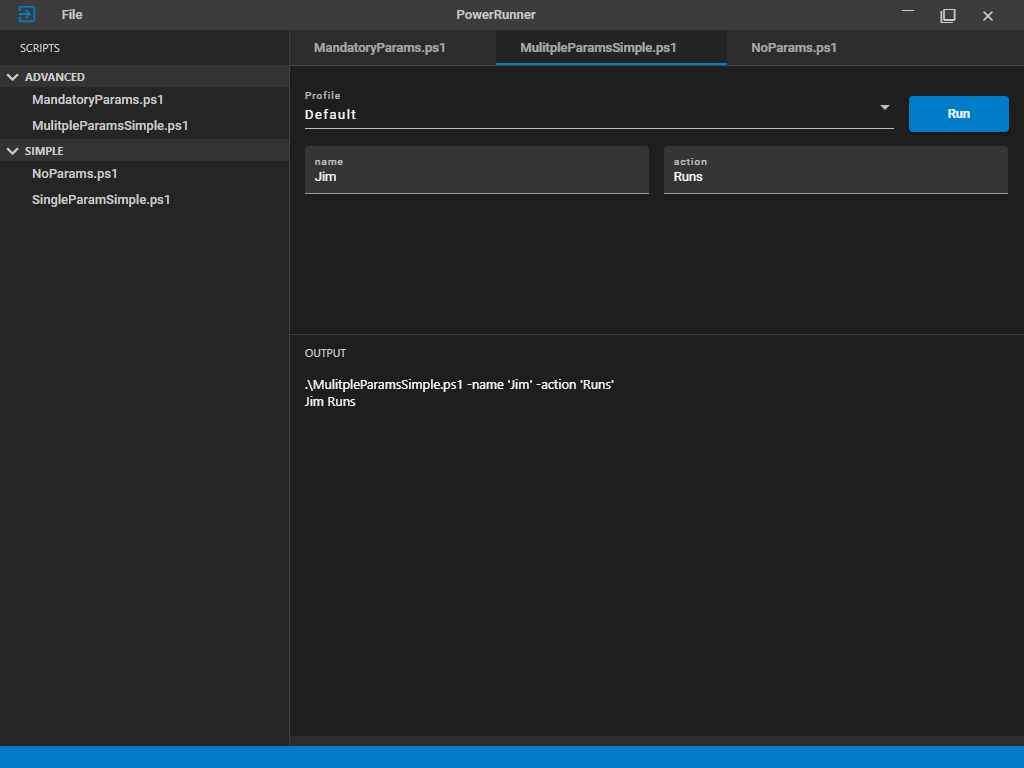
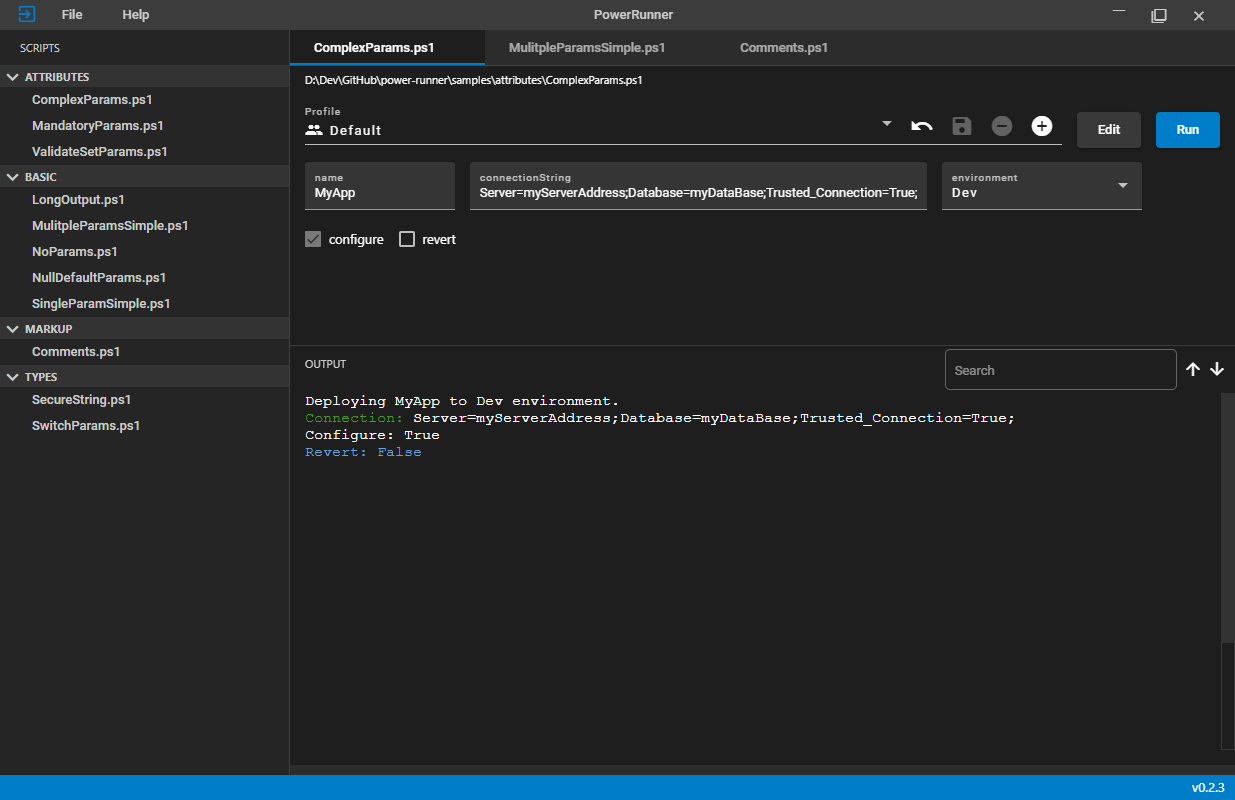
Updated screenshots and installation instructions.

diff --git a/README.md b/README.md
@@ -12,16 +12,24 @@ PowerShell Script runnner that loads scripts from paths and parses commmand line
 - Quickly stop and start runs with a button
 - Search and browse console output
 - Click Edit to go directly to source
+- Automatically keeps itself up to date
 
 ## Example
 
 ``` PowerShell
 param (
-    [string]$name = 'Jim',
-    [string]$action = 'Runs'
+  [string]$name = 'MyApp',
+  [string]$connectionString = 'Server=myServerAddress;Database=myDataBase;Trusted_Connection=True;',
+  [string][ValidateSet("Dev", "Test", "Stage", "Prod")]$environment = "Dev",
+  [bool]$configure = $true,
+  [switch]$revert = $false
 )
 
-Write-Host "$name $action"
+$ESC = [char]27
+Write-Host "Deploying $name to $environment environment."
+Write-Host "$ESC[32mConnection:$ESC[0m $connectionString"
+Write-Host "Configure: $configure"
+Write-Host "Revert: $revert" -ForegroundColor Blue
 ```
 
 <br>
@@ -29,9 +37,18 @@ Write-Host "$name $action"
 ![Overview](assets/overview.png)
 
 # Setup
-1. When the application starts for the first time, the settings page will be shown
-2. Click on the folder to browse to your root directory for searching for scripts
-3. Enter a pattern for search for your PowerShell scripts
+1. Click `PowerRunnerSetup.exe` from [Releases](https://github.com/greggbjensen/power-runner/releases/) to install
+2. Keep the download, and click to launch it
+3. Click on `More info` on the blue Windows prompt, then `Run anyway`
+
+    ![Overview](assets/windows-approve-dialog.png)
+
+    ![Overview](assets/windows-approve-dialog-run-anyway.png)
+    
+
+2. When the application starts for the first time, the settings page will be shown
+3. Click on the folder to browse to your root directory for searching for scripts
+4. Enter a pattern for search for your PowerShell scripts
     
     Example:
     ```
